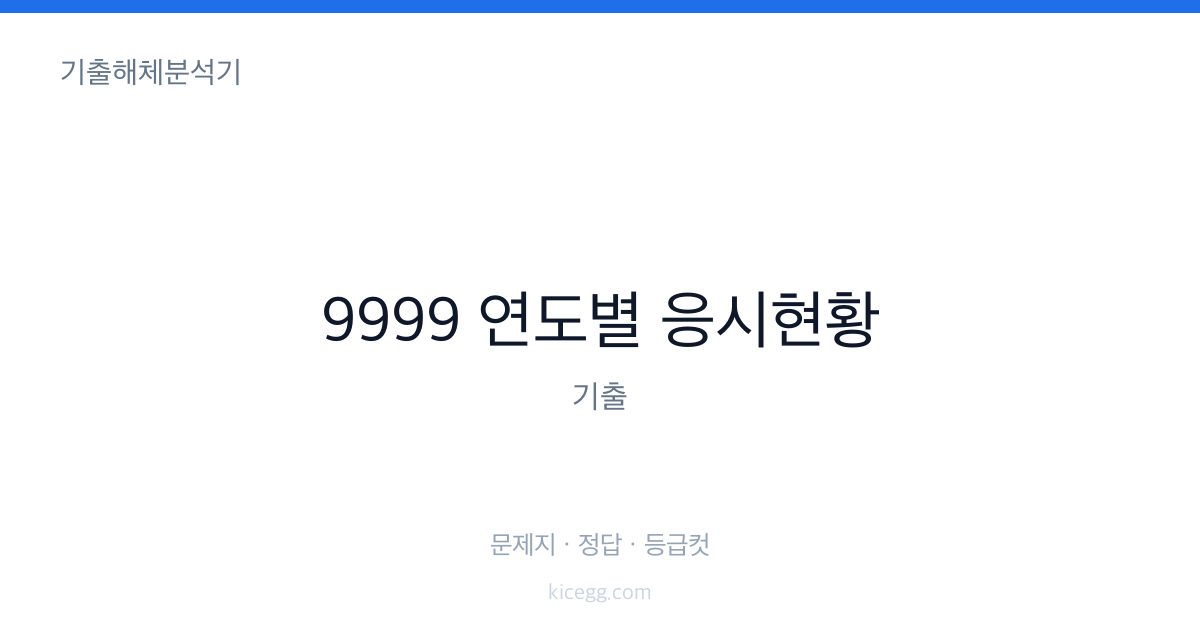
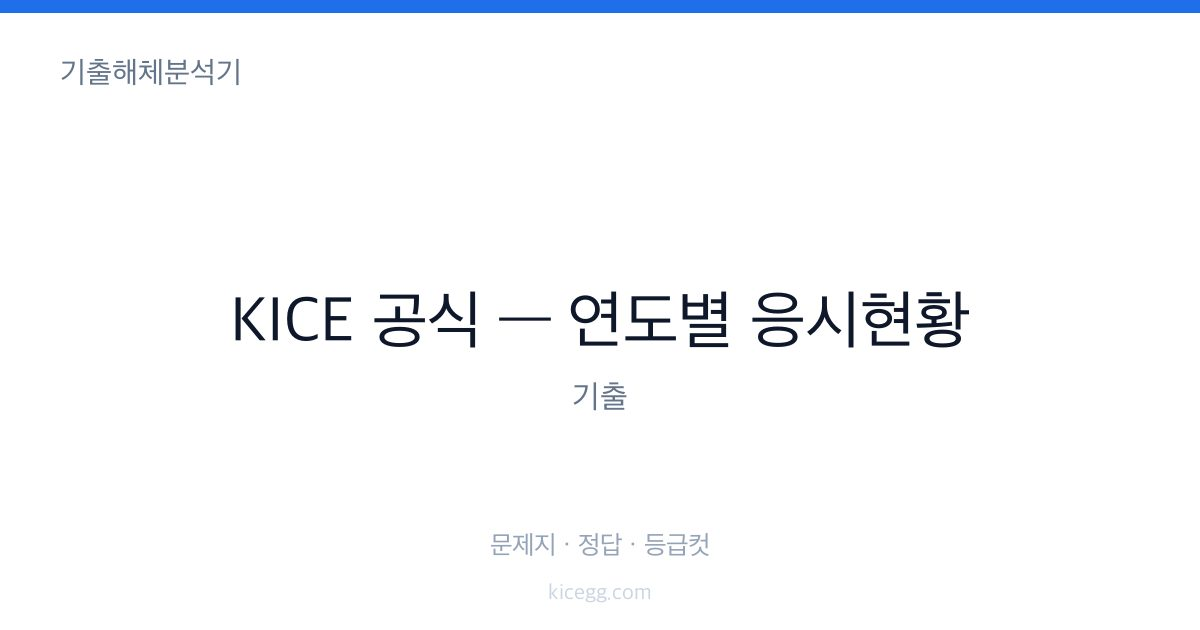
build-data: reference(통계 PDF) SEO 메타 분기 — '9999학년도' 제거, KICE 공식 통계 안내로 교체

Changed region(s): [[0.185, 0.4524, 0.8017, 0.573]]

diff --git a/exam-3.html b/exam-3.html
@@ -9,7 +9,7 @@
   <meta name="naver-site-verification" content="b3138c38039611bed2ce955aa7102ab33011cf14" />
   <!-- 동적 fallback (?id=N). SSG exam-{id}.html 가 검색 노출 대상 — 이 페이지는 인덱싱 제외. -->
   <meta name="robots" content="index,follow" />
-  <meta name="description" content="9999 연도별 채점현황 평균·등급·계열별 기출 문제지·정답·답지 PDF와 등급컷 통계. 99 연도별 채점현황 한 페이지에서 해체. 다운로드 무료." />
+  <meta name="description" content="한국교육과정평가원(KICE) 공식 수능 통계 — 연도별 채점현황 평균·등급·계열별 (2025년 공개). 평가원이 공개한 수능 통계 PDF를 다운로드하세요. 수능 통계 연도별 채점현황 평가원 공식 자료, 응시·접수·채점 현황 데이터." />
 
   <link rel="icon" type="image/svg+xml" href="favicon.svg" />
   <link rel="apple-touch-icon" href="favicon.svg" />
@@ -17,28 +17,28 @@
   <link rel="canonical" href="https://kicegg.com/exam-3.html" />
   <meta property="og:type" content="article" />
   <meta property="og:site_name" content="기출해체분석기" />
-  <meta property="og:title" content="9999 연도별 채점현황 평균·등급·계열별 기출 — 기출해체분석기" />
-  <meta property="og:description" content="9999 연도별 채점현황 평균·등급·계열별 기출 문제지·정답·답지 PDF와 등급컷 통계. 99 연도별 채점현황 한 페이지에서 해체. 다운로드 무료." />
+  <meta property="og:title" content="KICE 공식 — 연도별 채점현황 평균·등급·계열별 통계 PDF — 기출해체분석기" />
+  <meta property="og:description" content="한국교육과정평가원(KICE) 공식 수능 통계 — 연도별 채점현황 평균·등급·계열별 (2025년 공개). 평가원이 공개한 수능 통계 PDF를 다운로드하세요. 수능 통계 연도별 채점현황 평가원 공식 자료, 응시·접수·채점 현황 데이터." />
   <meta property="og:url" content="https://kicegg.com/exam-3.html" />
   <meta property="og:image" content="https://kicegg.com/og/exam-3.jpg" />
   <meta property="og:image:width" content="1200" />
   <meta property="og:image:height" content="630" />
   <meta property="og:locale" content="ko_KR" />
   <meta name="twitter:card" content="summary_large_image" />
-  <meta name="twitter:title" content="9999 연도별 채점현황 평균·등급·계열별 기출 — 기출해체분석기" />
-  <meta name="twitter:description" content="9999 연도별 채점현황 평균·등급·계열별 기출 문제지·정답·답지 PDF와 등급컷 통계. 99 연도별 채점현황 한 페이지에서 해체. 다운로드 무료." />
+  <meta name="twitter:title" content="KICE 공식 — 연도별 채점현황 평균·등급·계열별 통계 PDF — 기출해체분석기" />
+  <meta name="twitter:description" content="한국교육과정평가원(KICE) 공식 수능 통계 — 연도별 채점현황 평균·등급·계열별 (2025년 공개). 평가원이 공개한 수능 통계 PDF를 다운로드하세요. 수능 통계 연도별 채점현황 평가원 공식 자료, 응시·접수·채점 현황 데이터." />
   <meta name="twitter:image" content="https://kicegg.com/og/exam-3.jpg" />
-  <meta name="twitter:image:alt" content="9999 연도별 채점현황 평균·등급·계열별 — 기출해체분석기" />
+  <meta name="twitter:image:alt" content="KICE 공식 — 연도별 채점현황 평균·등급·계열별 — 기출해체분석기" />
 
   <link rel="preconnect" href="https://cdn.jsdelivr.net" crossorigin />
   <link rel="stylesheet" crossorigin integrity="sha384-uGEvnSEpW2nM9xJFsrxrwakwrk9QdDTQIBJh0hVMu90OaVyMAMpAK1rIn0/Kh1/k"
         href="https://cdn.jsdelivr.net/gh/orioncactus/pretendard@v1.3.9/dist/web/static/pretendard.min.css" />
 
-  <title>9999 연도별 채점현황 평균·등급·계열별 기출 — 기출해체분석기</title>
+  <title>KICE 공식 — 연도별 채점현황 평균·등급·계열별 통계 PDF — 기출해체분석기</title>
   <link rel="stylesheet" href="style.css?v=20260510c" />
   <link rel="modulepreload" href="exam.js?v=20260509d" />
-  <script type="application/ld+json">{"@context":"https://schema.org","@type":"LearningResource","@id":"https://kicegg.com/exam-3.html","url":"https://kicegg.com/exam-3.html","name":"9999 연도별 채점현황 평균·등급·계열별","description":"9999 연도별 채점현황 평균·등급·계열별 기출 문제지·정답·답지 PDF와 등급컷 통계. 99 연도별 채점현황 한 페이지에서 해체. 다운로드 무료.","inLanguage":"ko-KR","learningResourceType":"기출문제","educationalLevel":"대학원","isPartOf":{"@id":"https://kicegg.com/#website"},"keywords":["9999 연도별 채점현황 평균·등급·계열별","연도별 채점현황","문제지","기출문제","정답","답지","해설지","풀이","등급컷","빠른정답"],"hasPart":[{"@type":"DigitalDocument","name":"문제지","url":"https://suneung-files.hdh061224.workers.dev/kice-archive-v2/kice_yearly_scoring.pdf","encodingFormat":"application/pdf"}]}</script>
-  <script type="application/ld+json">{"@context":"https://schema.org","@type":"BreadcrumbList","itemListElement":[{"@type":"ListItem","position":1,"name":"홈","item":"https://kicegg.com/"},{"@type":"ListItem","position":2,"name":"기출 검색","item":"https://kicegg.com/archive.html"},{"@type":"ListItem","position":3,"name":"9999 연도별 채점현황 평균·등급·계열별","item":"https://kicegg.com/exam-3.html"}]}</script>
+  <script type="application/ld+json">{"@context":"https://schema.org","@type":"LearningResource","@id":"https://kicegg.com/exam-3.html","url":"https://kicegg.com/exam-3.html","name":"KICE 공식 — 연도별 채점현황 평균·등급·계열별","description":"한국교육과정평가원(KICE) 공식 수능 통계 — 연도별 채점현황 평균·등급·계열별 (2025년 공개). 평가원이 공개한 수능 통계 PDF를 다운로드하세요. 수능 통계 연도별 채점현황 평가원 공식 자료, 응시·접수·채점 현황 데이터.","inLanguage":"ko-KR","learningResourceType":"기출문제","educationalLevel":"대학원","isPartOf":{"@id":"https://kicegg.com/#website"},"keywords":["KICE 공식 — 연도별 채점현황 평균·등급·계열별","한국교육과정평가원(KICE) 공식 수능 통계 — 연도별 채점현황 평균·등급·계열별 (2025년 공개)","연도별 채점현황","문제지","기출문제","정답","답지","해설지","풀이","등급컷","빠른정답"],"hasPart":[{"@type":"DigitalDocument","name":"문제지","url":"https://suneung-files.hdh061224.workers.dev/kice-archive-v2/kice_yearly_scoring.pdf","encodingFormat":"application/pdf"}]}</script>
+  <script type="application/ld+json">{"@context":"https://schema.org","@type":"BreadcrumbList","itemListElement":[{"@type":"ListItem","position":1,"name":"홈","item":"https://kicegg.com/"},{"@type":"ListItem","position":2,"name":"기출 검색","item":"https://kicegg.com/archive.html"},{"@type":"ListItem","position":3,"name":"KICE 공식 — 연도별 채점현황 평균·등급·계열별","item":"https://kicegg.com/exam-3.html"}]}</script>
 </head>
 <body class="page-exam">
 
@@ -90,9 +90,9 @@
 
       <header class="exam__head" id="examHead">
         <div class="exam__chips" id="examChips"></div>
-        <h1 class="exam__title" id="examTitle">9999 연도별 채점현황 평균·등급·계열별</h1>
+        <h1 class="exam__title" id="examTitle">KICE 공식 — 연도별 채점현황 평균·등급·계열별</h1>
         <p  class="exam__sub"   id="examSub"></p>
-        <p class="exam__seo-intro" id="examSeoIntro">9999 연도별 채점현황 평균·등급·계열별 기출 자료입니다. 문제지, 정답, 해설지, 등급컷·빠른정답까지 한 페이지에서 확인하세요. </p>
+        <p class="exam__seo-intro" id="examSeoIntro">한국교육과정평가원(KICE) 공식 수능 통계 — 연도별 채점현황 평균·등급·계열별 (2025년 공개). 한국교육과정평가원이 공개한 공식 통계 자료로, 역대 수능의 응시 인원·접수 현황·과목별 채점 결과(평균·등급·계열별 분포)를 담고 있습니다. PDF 파일을 무료로 다운로드해 확인하세요.</p>
       </header>
 
       <div class="exam__actions" id="examActions"></div>

diff --git a/exam-2.html b/exam-2.html
@@ -9,7 +9,7 @@
   <meta name="naver-site-verification" content="b3138c38039611bed2ce955aa7102ab33011cf14" />
   <!-- 동적 fallback (?id=N). SSG exam-{id}.html 가 검색 노출 대상 — 이 페이지는 인덱싱 제외. -->
   <meta name="robots" content="index,follow" />
-  <meta name="description" content="9999 연도별 접수현황 기출 문제지·정답·답지 PDF와 등급컷 통계. 99 연도별 접수현황 한 페이지에서 해체. 다운로드 무료." />
+  <meta name="description" content="한국교육과정평가원(KICE) 공식 수능 통계 — 연도별 접수현황 (2025년 공개). 평가원이 공개한 수능 통계 PDF를 다운로드하세요. 수능 통계 연도별 접수현황 평가원 공식 자료, 응시·접수·채점 현황 데이터." />
 
   <link rel="icon" type="image/svg+xml" href="favicon.svg" />
   <link rel="apple-touch-icon" href="favicon.svg" />
@@ -17,28 +17,28 @@
   <link rel="canonical" href="https://kicegg.com/exam-2.html" />
   <meta property="og:type" content="article" />
   <meta property="og:site_name" content="기출해체분석기" />
-  <meta property="og:title" content="9999 연도별 접수현황 기출 — 기출해체분석기" />
-  <meta property="og:description" content="9999 연도별 접수현황 기출 문제지·정답·답지 PDF와 등급컷 통계. 99 연도별 접수현황 한 페이지에서 해체. 다운로드 무료." />
+  <meta property="og:title" content="KICE 공식 — 연도별 접수현황 통계 PDF — 기출해체분석기" />
+  <meta property="og:description" content="한국교육과정평가원(KICE) 공식 수능 통계 — 연도별 접수현황 (2025년 공개). 평가원이 공개한 수능 통계 PDF를 다운로드하세요. 수능 통계 연도별 접수현황 평가원 공식 자료, 응시·접수·채점 현황 데이터." />
   <meta property="og:url" content="https://kicegg.com/exam-2.html" />
   <meta property="og:image" content="https://kicegg.com/og/exam-2.jpg" />
   <meta property="og:image:width" content="1200" />
   <meta property="og:image:height" content="630" />
   <meta property="og:locale" content="ko_KR" />
   <meta name="twitter:card" content="summary_large_image" />
-  <meta name="twitter:title" content="9999 연도별 접수현황 기출 — 기출해체분석기" />
-  <meta name="twitter:description" content="9999 연도별 접수현황 기출 문제지·정답·답지 PDF와 등급컷 통계. 99 연도별 접수현황 한 페이지에서 해체. 다운로드 무료." />
+  <meta name="twitter:title" content="KICE 공식 — 연도별 접수현황 통계 PDF — 기출해체분석기" />
+  <meta name="twitter:description" content="한국교육과정평가원(KICE) 공식 수능 통계 — 연도별 접수현황 (2025년 공개). 평가원이 공개한 수능 통계 PDF를 다운로드하세요. 수능 통계 연도별 접수현황 평가원 공식 자료, 응시·접수·채점 현황 데이터." />
   <meta name="twitter:image" content="https://kicegg.com/og/exam-2.jpg" />
-  <meta name="twitter:image:alt" content="9999 연도별 접수현황 — 기출해체분석기" />
+  <meta name="twitter:image:alt" content="KICE 공식 — 연도별 접수현황 — 기출해체분석기" />
 
   <link rel="preconnect" href="https://cdn.jsdelivr.net" crossorigin />
   <link rel="stylesheet" crossorigin integrity="sha384-uGEvnSEpW2nM9xJFsrxrwakwrk9QdDTQIBJh0hVMu90OaVyMAMpAK1rIn0/Kh1/k"
         href="https://cdn.jsdelivr.net/gh/orioncactus/pretendard@v1.3.9/dist/web/static/pretendard.min.css" />
 
-  <title>9999 연도별 접수현황 기출 — 기출해체분석기</title>
+  <title>KICE 공식 — 연도별 접수현황 통계 PDF — 기출해체분석기</title>
   <link rel="stylesheet" href="style.css?v=20260510c" />
   <link rel="modulepreload" href="exam.js?v=20260509d" />
-  <script type="application/ld+json">{"@context":"https://schema.org","@type":"LearningResource","@id":"https://kicegg.com/exam-2.html","url":"https://kicegg.com/exam-2.html","name":"9999 연도별 접수현황","description":"9999 연도별 접수현황 기출 문제지·정답·답지 PDF와 등급컷 통계. 99 연도별 접수현황 한 페이지에서 해체. 다운로드 무료.","inLanguage":"ko-KR","learningResourceType":"기출문제","educationalLevel":"대학원","isPartOf":{"@id":"https://kicegg.com/#website"},"keywords":["9999 연도별 접수현황","연도별 접수현황","문제지","기출문제","정답","답지","해설지","풀이","등급컷","빠른정답"],"hasPart":[{"@type":"DigitalDocument","name":"문제지","url":"https://suneung-files.hdh061224.workers.dev/kice-archive-v2/kice_yearly_application.pdf","encodingFormat":"application/pdf"}]}</script>
-  <script type="application/ld+json">{"@context":"https://schema.org","@type":"BreadcrumbList","itemListElement":[{"@type":"ListItem","position":1,"name":"홈","item":"https://kicegg.com/"},{"@type":"ListItem","position":2,"name":"기출 검색","item":"https://kicegg.com/archive.html"},{"@type":"ListItem","position":3,"name":"9999 연도별 접수현황","item":"https://kicegg.com/exam-2.html"}]}</script>
+  <script type="application/ld+json">{"@context":"https://schema.org","@type":"LearningResource","@id":"https://kicegg.com/exam-2.html","url":"https://kicegg.com/exam-2.html","name":"KICE 공식 — 연도별 접수현황","description":"한국교육과정평가원(KICE) 공식 수능 통계 — 연도별 접수현황 (2025년 공개). 평가원이 공개한 수능 통계 PDF를 다운로드하세요. 수능 통계 연도별 접수현황 평가원 공식 자료, 응시·접수·채점 현황 데이터.","inLanguage":"ko-KR","learningResourceType":"기출문제","educationalLevel":"대학원","isPartOf":{"@id":"https://kicegg.com/#website"},"keywords":["KICE 공식 — 연도별 접수현황","한국교육과정평가원(KICE) 공식 수능 통계 — 연도별 접수현황 (2025년 공개)","연도별 접수현황","문제지","기출문제","정답","답지","해설지","풀이","등급컷","빠른정답"],"hasPart":[{"@type":"DigitalDocument","name":"문제지","url":"https://suneung-files.hdh061224.workers.dev/kice-archive-v2/kice_yearly_application.pdf","encodingFormat":"application/pdf"}]}</script>
+  <script type="application/ld+json">{"@context":"https://schema.org","@type":"BreadcrumbList","itemListElement":[{"@type":"ListItem","position":1,"name":"홈","item":"https://kicegg.com/"},{"@type":"ListItem","position":2,"name":"기출 검색","item":"https://kicegg.com/archive.html"},{"@type":"ListItem","position":3,"name":"KICE 공식 — 연도별 접수현황","item":"https://kicegg.com/exam-2.html"}]}</script>
 </head>
 <body class="page-exam">
 
@@ -90,9 +90,9 @@
 
       <header class="exam__head" id="examHead">
         <div class="exam__chips" id="examChips"></div>
-        <h1 class="exam__title" id="examTitle">9999 연도별 접수현황</h1>
+        <h1 class="exam__title" id="examTitle">KICE 공식 — 연도별 접수현황</h1>
         <p  class="exam__sub"   id="examSub"></p>
-        <p class="exam__seo-intro" id="examSeoIntro">9999 연도별 접수현황 기출 자료입니다. 문제지, 정답, 해설지, 등급컷·빠른정답까지 한 페이지에서 확인하세요. </p>
+        <p class="exam__seo-intro" id="examSeoIntro">한국교육과정평가원(KICE) 공식 수능 통계 — 연도별 접수현황 (2025년 공개). 한국교육과정평가원이 공개한 공식 통계 자료로, 역대 수능의 응시 인원·접수 현황·과목별 채점 결과(평균·등급·계열별 분포)를 담고 있습니다. PDF 파일을 무료로 다운로드해 확인하세요.</p>
       </header>
 
       <div class="exam__actions" id="examActions"></div>

diff --git a/exam-1.html b/exam-1.html
@@ -9,7 +9,7 @@
   <meta name="naver-site-verification" content="b3138c38039611bed2ce955aa7102ab33011cf14" />
   <!-- 동적 fallback (?id=N). SSG exam-{id}.html 가 검색 노출 대상 — 이 페이지는 인덱싱 제외. -->
   <meta name="robots" content="index,follow" />
-  <meta name="description" content="9999 연도별 응시현황 기출 문제지·정답·답지 PDF와 등급컷 통계. 99 연도별 응시현황 한 페이지에서 해체. 다운로드 무료." />
+  <meta name="description" content="한국교육과정평가원(KICE) 공식 수능 통계 — 연도별 응시현황 (2025년 공개). 평가원이 공개한 수능 통계 PDF를 다운로드하세요. 수능 통계 연도별 응시현황 평가원 공식 자료, 응시·접수·채점 현황 데이터." />
 
   <link rel="icon" type="image/svg+xml" href="favicon.svg" />
   <link rel="apple-touch-icon" href="favicon.svg" />
@@ -17,28 +17,28 @@
   <link rel="canonical" href="https://kicegg.com/exam-1.html" />
   <meta property="og:type" content="article" />
   <meta property="og:site_name" content="기출해체분석기" />
-  <meta property="og:title" content="9999 연도별 응시현황 기출 — 기출해체분석기" />
-  <meta property="og:description" content="9999 연도별 응시현황 기출 문제지·정답·답지 PDF와 등급컷 통계. 99 연도별 응시현황 한 페이지에서 해체. 다운로드 무료." />
+  <meta property="og:title" content="KICE 공식 — 연도별 응시현황 통계 PDF — 기출해체분석기" />
+  <meta property="og:description" content="한국교육과정평가원(KICE) 공식 수능 통계 — 연도별 응시현황 (2025년 공개). 평가원이 공개한 수능 통계 PDF를 다운로드하세요. 수능 통계 연도별 응시현황 평가원 공식 자료, 응시·접수·채점 현황 데이터." />
   <meta property="og:url" content="https://kicegg.com/exam-1.html" />
   <meta property="og:image" content="https://kicegg.com/og/exam-1.jpg" />
   <meta property="og:image:width" content="1200" />
   <meta property="og:image:height" content="630" />
   <meta property="og:locale" content="ko_KR" />
   <meta name="twitter:card" content="summary_large_image" />
-  <meta name="twitter:title" content="9999 연도별 응시현황 기출 — 기출해체분석기" />
-  <meta name="twitter:description" content="9999 연도별 응시현황 기출 문제지·정답·답지 PDF와 등급컷 통계. 99 연도별 응시현황 한 페이지에서 해체. 다운로드 무료." />
+  <meta name="twitter:title" content="KICE 공식 — 연도별 응시현황 통계 PDF — 기출해체분석기" />
+  <meta name="twitter:description" content="한국교육과정평가원(KICE) 공식 수능 통계 — 연도별 응시현황 (2025년 공개). 평가원이 공개한 수능 통계 PDF를 다운로드하세요. 수능 통계 연도별 응시현황 평가원 공식 자료, 응시·접수·채점 현황 데이터." />
   <meta name="twitter:image" content="https://kicegg.com/og/exam-1.jpg" />
-  <meta name="twitter:image:alt" content="9999 연도별 응시현황 — 기출해체분석기" />
+  <meta name="twitter:image:alt" content="KICE 공식 — 연도별 응시현황 — 기출해체분석기" />
 
   <link rel="preconnect" href="https://cdn.jsdelivr.net" crossorigin />
   <link rel="stylesheet" crossorigin integrity="sha384-uGEvnSEpW2nM9xJFsrxrwakwrk9QdDTQIBJh0hVMu90OaVyMAMpAK1rIn0/Kh1/k"
         href="https://cdn.jsdelivr.net/gh/orioncactus/pretendard@v1.3.9/dist/web/static/pretendard.min.css" />
 
-  <title>9999 연도별 응시현황 기출 — 기출해체분석기</title>
+  <title>KICE 공식 — 연도별 응시현황 통계 PDF — 기출해체분석기</title>
   <link rel="stylesheet" href="style.css?v=20260510c" />
   <link rel="modulepreload" href="exam.js?v=20260509d" />
-  <script type="application/ld+json">{"@context":"https://schema.org","@type":"LearningResource","@id":"https://kicegg.com/exam-1.html","url":"https://kicegg.com/exam-1.html","name":"9999 연도별 응시현황","description":"9999 연도별 응시현황 기출 문제지·정답·답지 PDF와 등급컷 통계. 99 연도별 응시현황 한 페이지에서 해체. 다운로드 무료.","inLanguage":"ko-KR","learningResourceType":"기출문제","educationalLevel":"대학원","isPartOf":{"@id":"https://kicegg.com/#website"},"keywords":["9999 연도별 응시현황","연도별 응시현황","문제지","기출문제","정답","답지","해설지","풀이","등급컷","빠른정답"],"hasPart":[{"@type":"DigitalDocument","name":"문제지","url":"https://suneung-files.hdh061224.workers.dev/kice-archive-v2/kice_yearly_attendance.pdf","encodingFormat":"application/pdf"}]}</script>
-  <script type="application/ld+json">{"@context":"https://schema.org","@type":"BreadcrumbList","itemListElement":[{"@type":"ListItem","position":1,"name":"홈","item":"https://kicegg.com/"},{"@type":"ListItem","position":2,"name":"기출 검색","item":"https://kicegg.com/archive.html"},{"@type":"ListItem","position":3,"name":"9999 연도별 응시현황","item":"https://kicegg.com/exam-1.html"}]}</script>
+  <script type="application/ld+json">{"@context":"https://schema.org","@type":"LearningResource","@id":"https://kicegg.com/exam-1.html","url":"https://kicegg.com/exam-1.html","name":"KICE 공식 — 연도별 응시현황","description":"한국교육과정평가원(KICE) 공식 수능 통계 — 연도별 응시현황 (2025년 공개). 평가원이 공개한 수능 통계 PDF를 다운로드하세요. 수능 통계 연도별 응시현황 평가원 공식 자료, 응시·접수·채점 현황 데이터.","inLanguage":"ko-KR","learningResourceType":"기출문제","educationalLevel":"대학원","isPartOf":{"@id":"https://kicegg.com/#website"},"keywords":["KICE 공식 — 연도별 응시현황","한국교육과정평가원(KICE) 공식 수능 통계 — 연도별 응시현황 (2025년 공개)","연도별 응시현황","문제지","기출문제","정답","답지","해설지","풀이","등급컷","빠른정답"],"hasPart":[{"@type":"DigitalDocument","name":"문제지","url":"https://suneung-files.hdh061224.workers.dev/kice-archive-v2/kice_yearly_attendance.pdf","encodingFormat":"application/pdf"}]}</script>
+  <script type="application/ld+json">{"@context":"https://schema.org","@type":"BreadcrumbList","itemListElement":[{"@type":"ListItem","position":1,"name":"홈","item":"https://kicegg.com/"},{"@type":"ListItem","position":2,"name":"기출 검색","item":"https://kicegg.com/archive.html"},{"@type":"ListItem","position":3,"name":"KICE 공식 — 연도별 응시현황","item":"https://kicegg.com/exam-1.html"}]}</script>
 </head>
 <body class="page-exam">
 
@@ -90,9 +90,9 @@
 
       <header class="exam__head" id="examHead">
         <div class="exam__chips" id="examChips"></div>
-        <h1 class="exam__title" id="examTitle">9999 연도별 응시현황</h1>
+        <h1 class="exam__title" id="examTitle">KICE 공식 — 연도별 응시현황</h1>
         <p  class="exam__sub"   id="examSub"></p>
-        <p class="exam__seo-intro" id="examSeoIntro">9999 연도별 응시현황 기출 자료입니다. 문제지, 정답, 해설지, 등급컷·빠른정답까지 한 페이지에서 확인하세요. </p>
+        <p class="exam__seo-intro" id="examSeoIntro">한국교육과정평가원(KICE) 공식 수능 통계 — 연도별 응시현황 (2025년 공개). 한국교육과정평가원이 공개한 공식 통계 자료로, 역대 수능의 응시 인원·접수 현황·과목별 채점 결과(평균·등급·계열별 분포)를 담고 있습니다. PDF 파일을 무료로 다운로드해 확인하세요.</p>
       </header>
 
       <div class="exam__actions" id="examActions"></div>

diff --git a/scripts/build-data.py b/scripts/build-data.py
@@ -723,6 +723,12 @@ def build_exam_meta(it: dict) -> dict:
         head  = f'{gy}학년도 MEET {sub}'
         seo_kw = f'{gy2}학년도 미트 {sub} 기출'
         full_phrase = f'{gy}학년도 MEET(의·치학교육입문검사) {sub}'
+    elif tg == 'reference':
+        # 통계 PDF — 학년도 의미 없음, 자료명 중심
+        ey   = it.get('examYear') or ''
+        head = f'KICE 공식 — {sub}{sub_part}'
+        seo_kw = f'수능 통계 {sub} 평가원 공식 자료'
+        full_phrase = f'한국교육과정평가원(KICE) 공식 수능 통계 — {sub}{sub_part} ({ey}년 공개)' if ey else f'KICE 공식 수능 통계 — {sub}{sub_part}'
     else:
         head = f'{gy} {sub}{sub_part}'
         seo_kw = f'{gy2} {sub}'
@@ -731,14 +737,23 @@ def build_exam_meta(it: dict) -> dict:
     is_english = (sub == '영어')
     has_listen = bool(it.get('listenUrl') or it.get('scriptUrl'))
 
-    # title — 영어는 자료 타입(듣기·대본·정답·해설지)을 직접 노출
-    if is_english and has_listen:
+    is_reference = (tg == 'reference')
+
+    # title — 영어는 자료 타입(듣기·대본·정답·해설지)을 직접 노출, reference는 통계 안내
+    if is_reference:
+        title = f'{head} 통계 PDF — 기출해체분석기'
+    elif is_english and has_listen:
         title = f'{head} 듣기·대본·정답·해설지 — 기출해체분석기'
     else:
         title = f'{head} 기출 — 기출해체분석기'
 
     # description — 영어는 듣기 mp3·대본 PDF 키워드를 명시
-    if is_english and has_listen:
+    if is_reference:
+        desc = (
+            f'{full_phrase}. 평가원이 공개한 수능 통계 PDF를 다운로드하세요. '
+            f'{seo_kw}, 응시·접수·채점 현황 데이터.'
+        )
+    elif is_english and has_listen:
         desc = (
             f'{full_phrase} 문제지, 정답, 해설지, 영어 듣기 MP3, 듣기 대본 PDF를 '
             f'한 페이지에서 확인하세요. {seo_kw}, 영어 듣기파일·스크립트도 함께 제공.'
@@ -754,7 +769,13 @@ def build_exam_meta(it: dict) -> dict:
     # SEO 본문 — H1 아래 첫 문단으로 들어갈 자연어 텍스트 (검색엔진이 본문에서 키워드 잡음)
     aliases = _exam_aliases(it)
     alias_phrase = ', '.join(aliases[:6]) if aliases else ''
-    if is_english and has_listen:
+    if is_reference:
+        intro = (
+            f'{full_phrase}. 한국교육과정평가원이 공개한 공식 통계 자료로, '
+            f'역대 수능의 응시 인원·접수 현황·과목별 채점 결과(평균·등급·계열별 분포)를 담고 있습니다. '
+            f'PDF 파일을 무료로 다운로드해 확인하세요.'
+        )
+    elif is_english and has_listen:
         intro = (
             f'{full_phrase} 기출 자료입니다. '
             f'문제지, 정답, 해설지뿐 아니라 영어 듣기 MP3와 듣기 대본 PDF, 스크립트 자료를 함께 제공합니다. '
